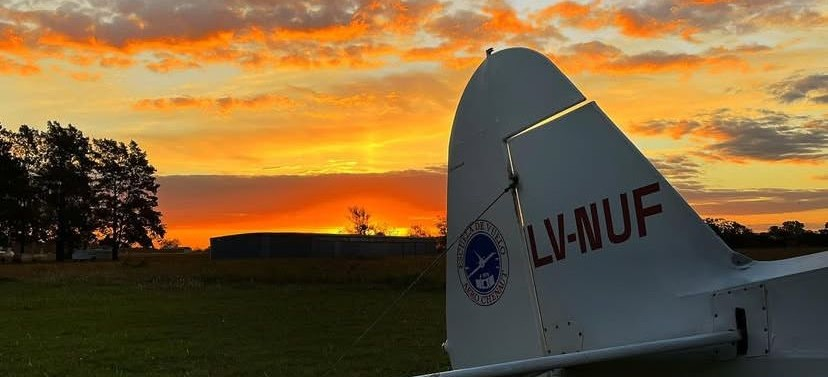
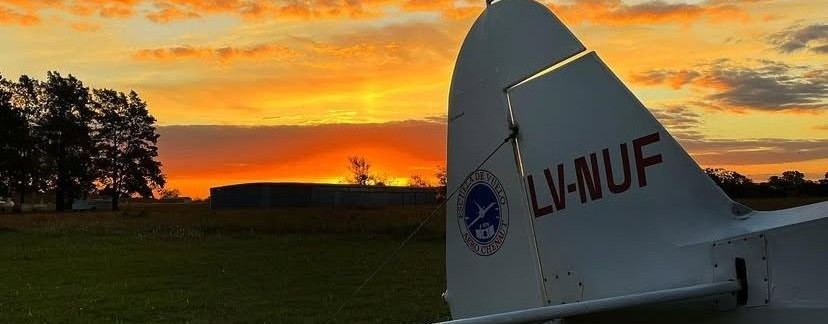
animacion

diff --git a/css/estilos.css b/css/estilos.css
@@ -159,7 +159,7 @@ main section h2 {
     transform-origin: 16% 16%;
   }
   100% {
-    transform: scale(1.15) translate(-10px, -8px);
+    transform: scale(1) translate(-8px, -6px);
     transform-origin: top left;
   }
 }

diff --git a/sass/partials-pages/_index.scss b/sass/partials-pages/_index.scss
@@ -91,7 +91,7 @@ main {
     transform-origin: 16% 16%;
     }
     100% {
-    transform: scale(1.15) translate(-10px, -8px);
+    transform: scale(1) translate(-8px, -6px);
     transform-origin: top left;
      }
  } 
